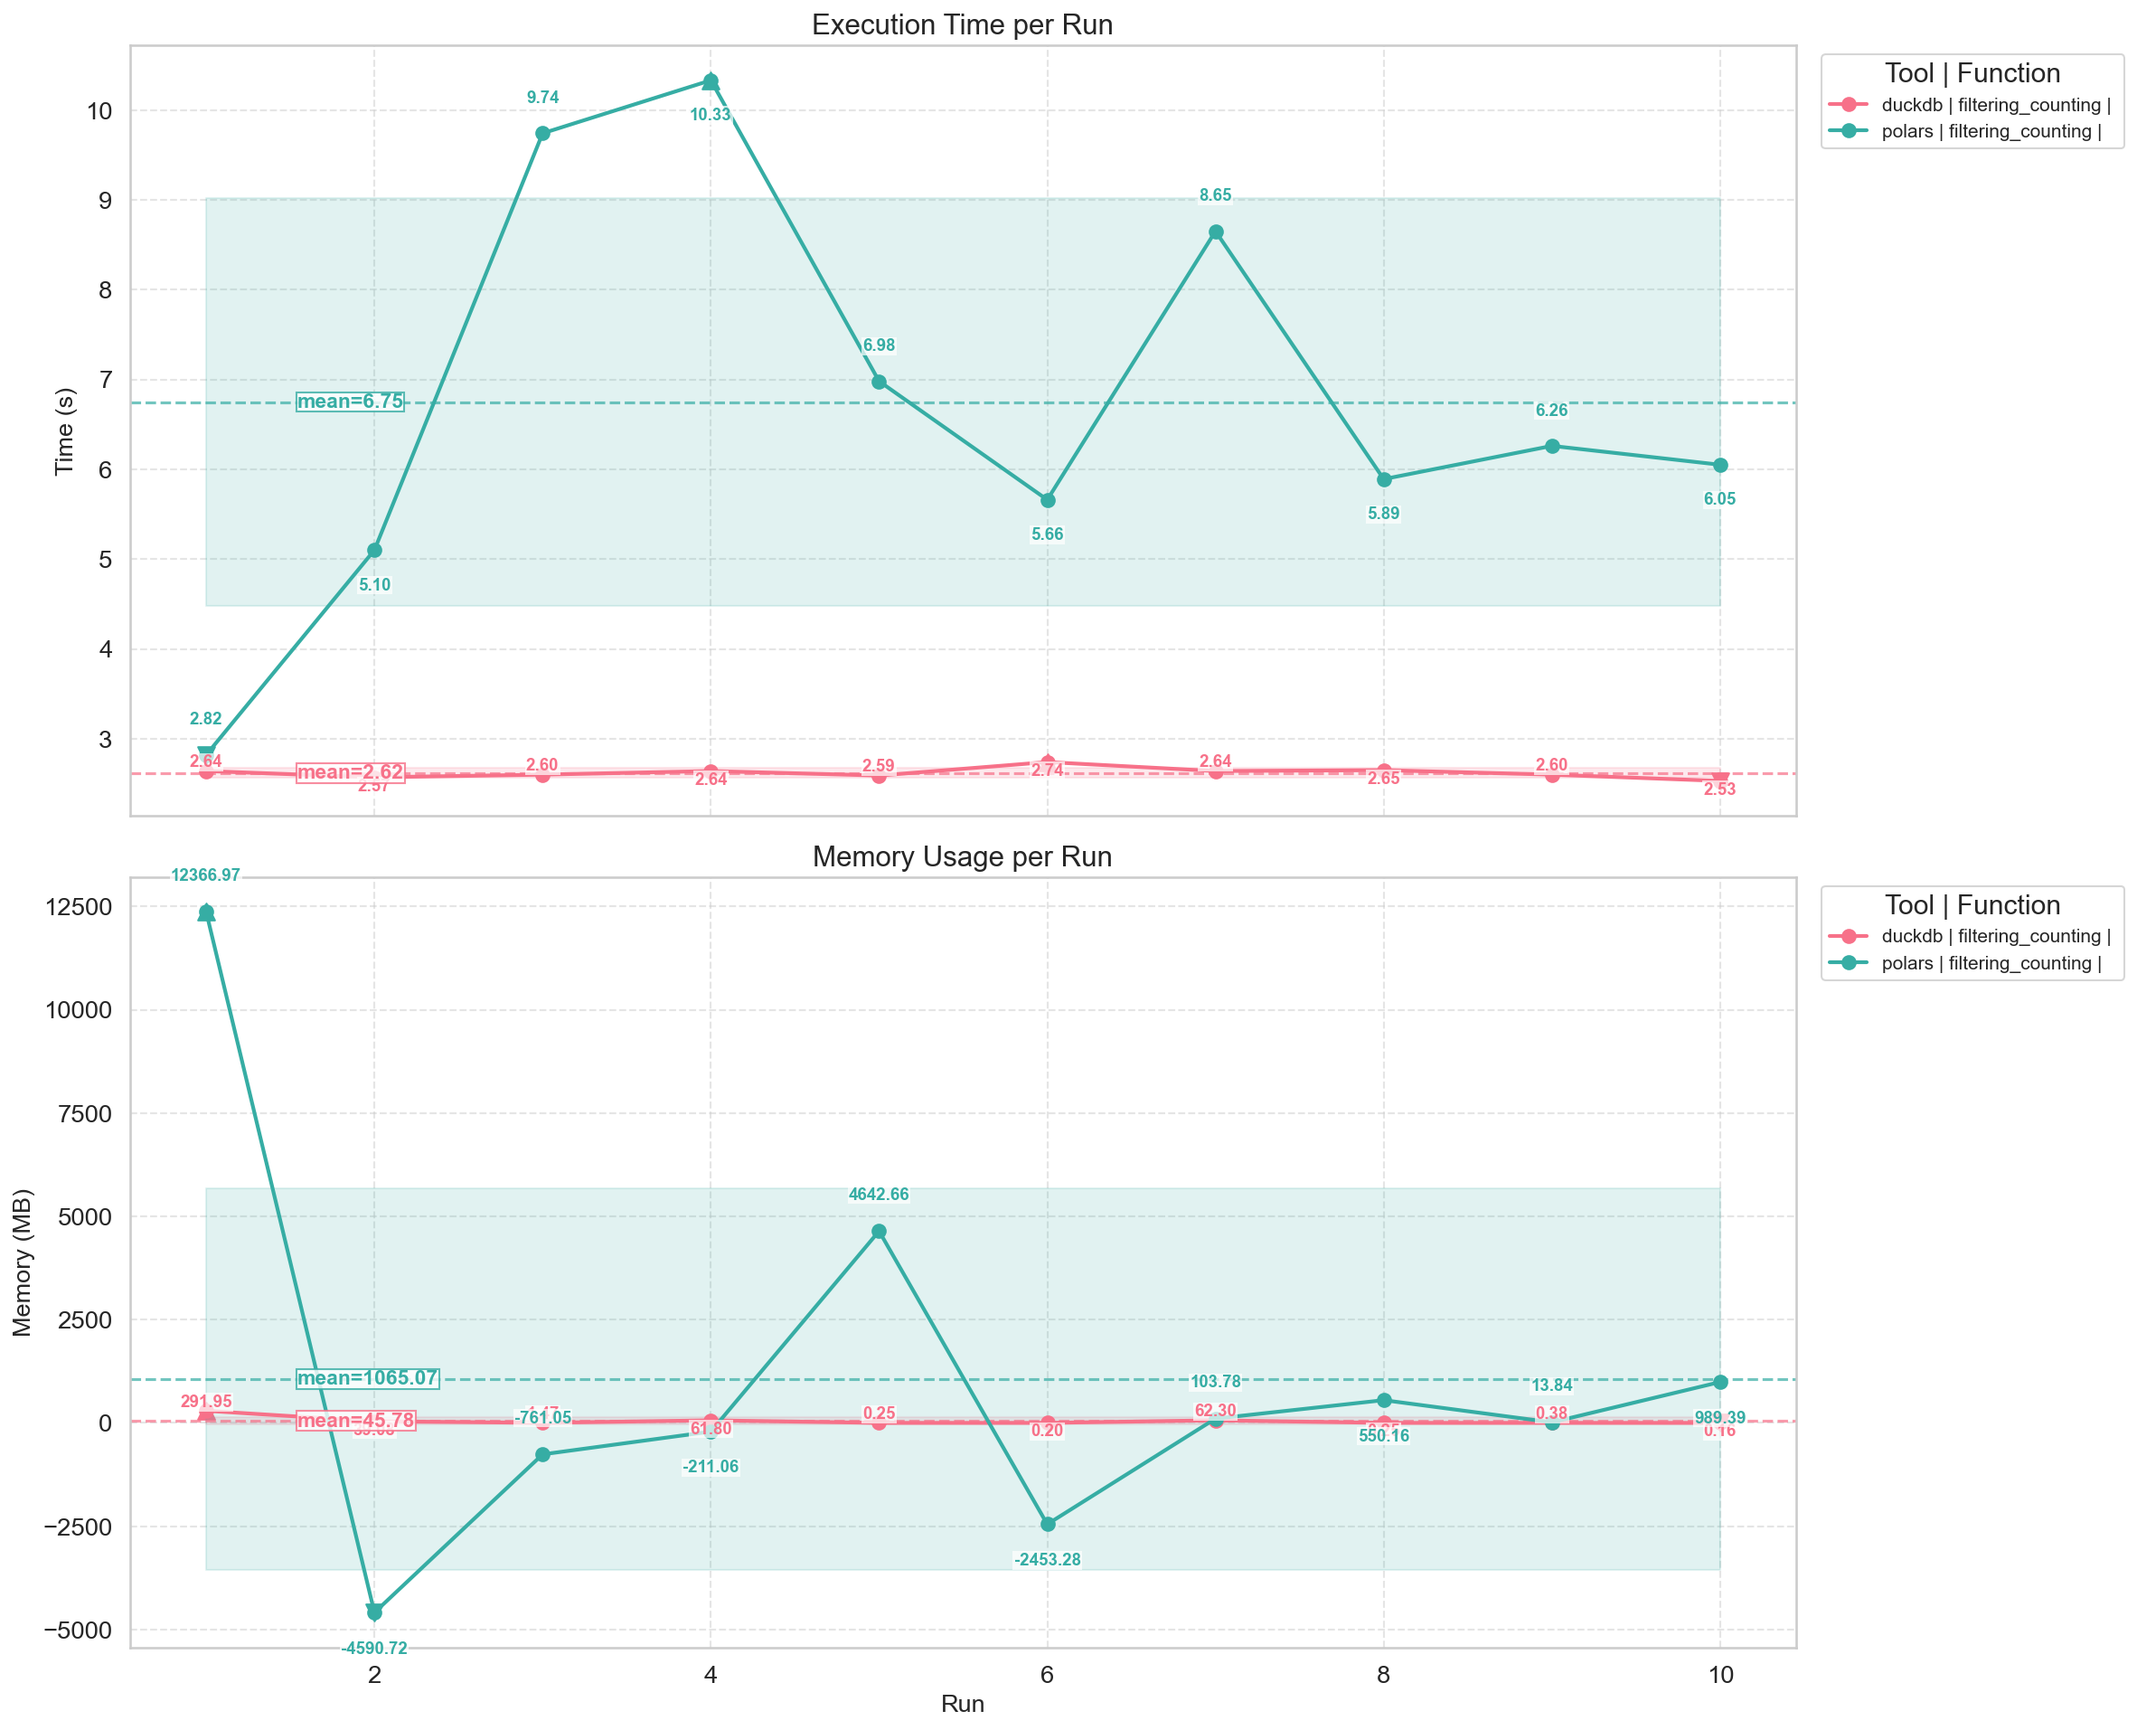
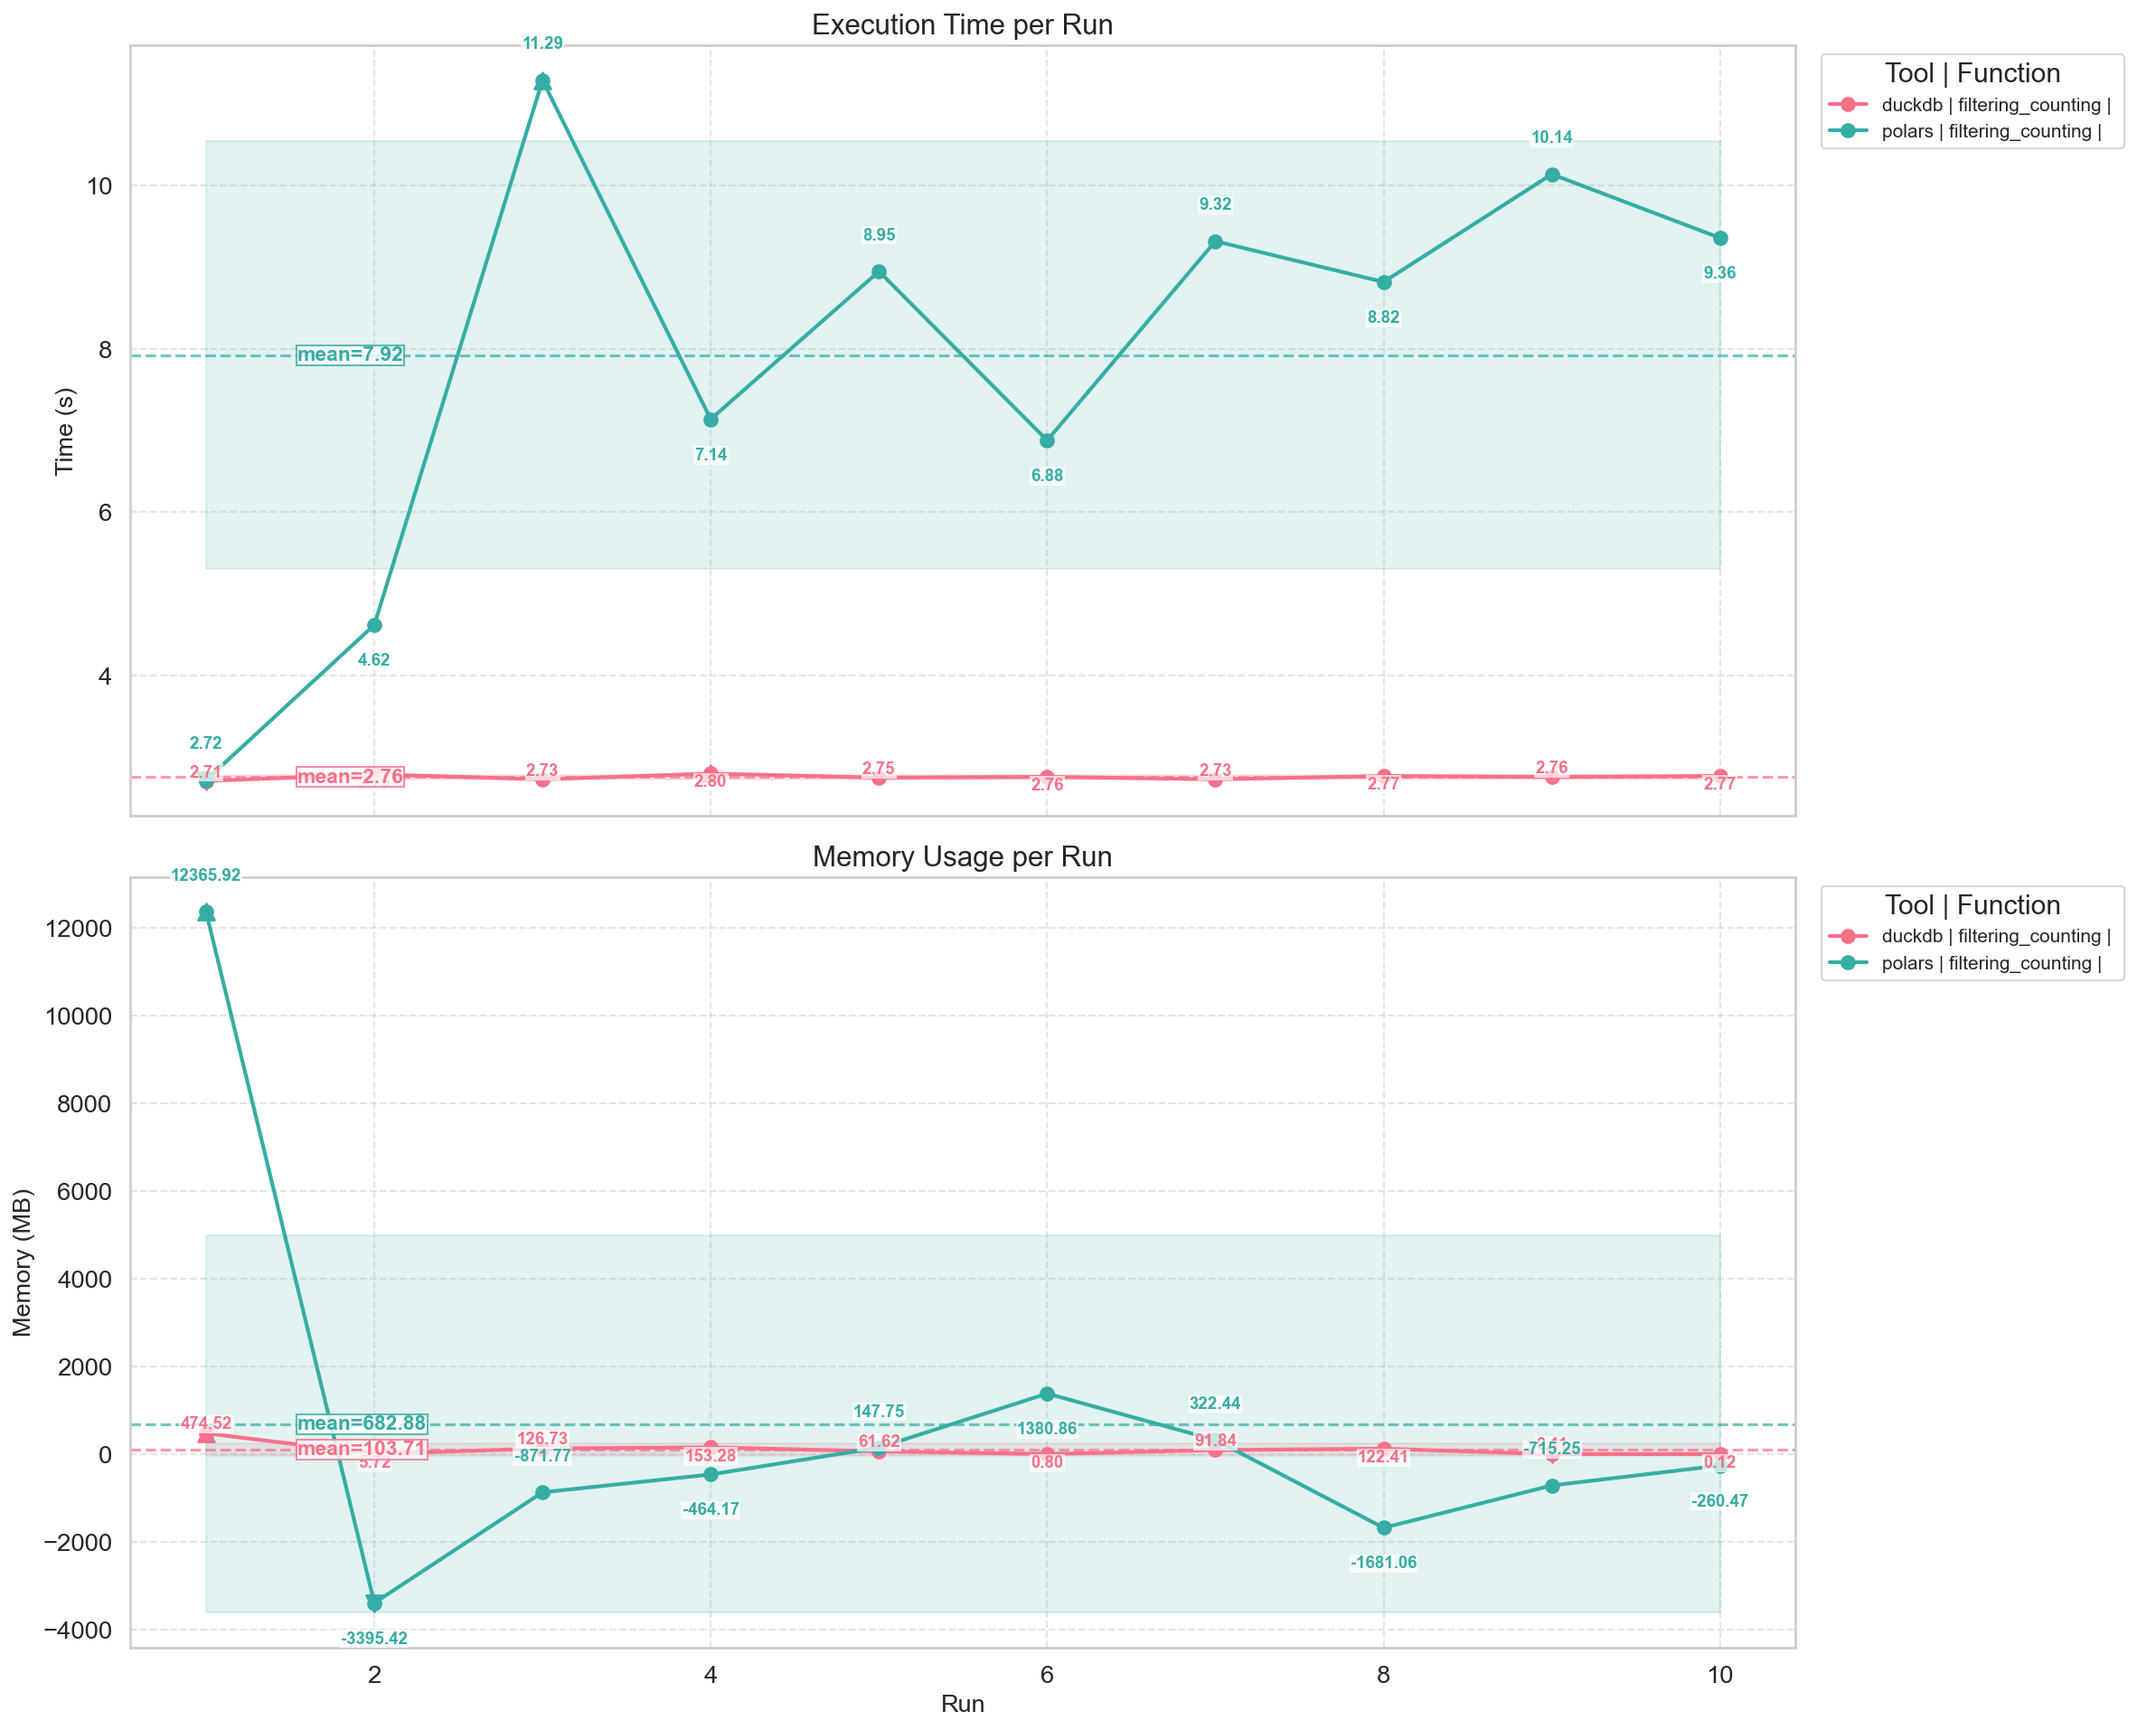
new plots

diff --git a/duckdb_polars_pandas/benchmark.py b/duckdb_polars_pandas/benchmark.py
@@ -108,39 +108,64 @@ def plot_multi(tools: List[str], function: str, mode: str) -> None:
 
 def main():
     parser = argparse.ArgumentParser(description="Benchmark runner for data processing tools.")
-    parser.add_argument("--comparison", choices=["full", "duckdb_polars"], default=None)
-    parser.add_argument("--tool", choices=["duckdb", "polars", "pandas"])
+    parser.add_argument("--tool", choices=["all", "duckdb_polars", "duckdb", "polars", "pandas"])
     parser.add_argument("--function", choices=[
         "filtering_counting",
         "filtering_grouping_aggregation",
         "grouping_conditional_aggregation"
     ], required=True)
-    parser.add_argument("--mode", choices=["cold", "hot"], default="cold")
+    parser.add_argument("--mode", choices=["all", "cold", "hot"], default="cold")
     parser.add_argument("--runs", type=int, default=10)
     args = parser.parse_args()
 
-    comparison_map = {
-        "full": ["pandas", "duckdb", "polars"],
-        "duckdb_polars": ["duckdb", "polars"]
+    tool_map = {
+        "all": ["pandas", "duckdb", "polars"],
+        "duckdb_polars": ["duckdb", "polars"],
+        "duckdb": ["duckdb"],
+        "polars": ["polars"],
+        "pandas": ["pandas"],
     }
 
-    if args.comparison:
-        tools = comparison_map[args.comparison]
+    tools = tool_map[args.tool]
+
+    if args.mode == "all":
         for tool in tools:
-            run_benchmark(args.runs, tool, args.function, args.mode)
+            run_benchmark(args.runs, tool, args.function, "cold")
         print(
-            f"\nBenchmark-Comparison for {args.function} with {', '.join([b.capitalize() for b in tools])} in {args.mode} mode with {args.runs} runs finished.\n")
-        plot_multi(tools, args.function, args.mode)
-        if args.comparison == "full":
+            f"\nBenchmark-Comparison for {args.function} with {', '.join([b.capitalize() for b in tools])} in cold mode with {args.runs} runs finished.\n")
+        plot_multi(tools, args.function, "cold")
+        if args.tool == "all":
             plotter.barcharts(
-                (f"results/{b}_{args.function}_{args.mode}.csv" for b in tools),
+                (f"results/{b}_{args.function}_cold.csv" for b in tools),
                 True,
-                f"results/{'_'.join(tools)}_{args.function}_{args.mode}_bar.png"
+                f"results/{'_'.join(tools)}_{args.function}_{"cold"}_bar.png"
             )
-            plot_multi(["duckdb", "polars"], args.function, args.mode)
+            plot_multi(["duckdb", "polars"], args.function, "cold")
+        for tool in tools:
+            run_benchmark(args.runs, tool, args.function, "hot")
+        print(
+            f"\nBenchmark-Comparison for {args.function} with {', '.join([b.capitalize() for b in tools])} in hot mode with {args.runs} runs finished.\n")
+        plot_multi(tools, args.function, "hot")
+        if args.tool == "all":
+            plotter.barcharts(
+                (f"results/{b}_{args.function}_hot.csv" for b in tools),
+                True,
+                f"results/{'_'.join(tools)}_{args.function}_hot_bar.png"
+            )
+            plot_multi(["duckdb", "polars"], args.function, "hot")
+        hot_cold_csvs = [
+                            f"results/{tool}_{args.function}_cold.csv"
+                            for tool in tools
+                        ] + [
+                            f"results/{tool}_{args.function}_hot.csv"
+                            for tool in tools
+                        ]
+        plotter.barcharts_hot_vs_cold(
+            hot_cold_csvs,
+            True,
+            f"results/{'_'.join(tools)}_{args.function}_hot_cold_bar.png"
+        )
     else:
-        if not args.tool:
-            parser.error("--tool is required if --comparison is not set")
         run_benchmark(args.runs, args.tool, args.function, args.mode)
         plotter.plot_results(
             f"results/{args.tool}_{args.function}_{args.mode}.csv",

diff --git a/duckdb_polars_pandas/plotter.py b/duckdb_polars_pandas/plotter.py
@@ -56,6 +56,44 @@ def barcharts(csv_files, save_fig=False, fig_name="benchmark_barcharts.png"):
 
     plt.show()
 
+def barcharts_hot_vs_cold(csv_files, save_fig=False, fig_name="benchmark_hot_vs_cold_barcharts.png"):
+    """
+    Plot grouped barcharts comparing hot and cold runs for each tool.
+    """
+    import re
+    df = _load_and_concat_csvs(csv_files, add_source=True)
+    _check_required_columns(df, {'tool', 'function', 'run', 'time_s', 'memory_mb', 'source'})
+
+    df['mode'] = df['source'].apply(lambda x: re.search(r'_(cold|hot)', x).group(1) if re.search(r'_(cold|hot)', x) else 'unknown')
+
+    tools = ['duckdb', 'polars', 'pandas']
+    modes = ['cold', 'hot']
+    palette = sns.color_palette("husl", len(tools))
+
+    avg_times = df.groupby(['tool', 'mode'])['time_s'].mean().unstack().reindex(tools).fillna(0)
+    avg_memory = df.groupby(['tool', 'mode'])['memory_mb'].mean().unstack().reindex(tools).fillna(0)
+
+    fig, axes = plt.subplots(1, 2, figsize=(14, 6))
+
+    avg_times.plot(kind='bar', ax=axes[0], color=['#1f77b4', '#ff7f0e'])
+    axes[0].set_ylabel('Average Time (s)')
+    axes[0].set_title('Average Execution Time by Tool (Hot vs Cold)')
+    axes[0].legend(title='Mode')
+    axes[0].set_ylim(bottom=0)
+
+    avg_memory.plot(kind='bar', ax=axes[1], color=['#1f77b4', '#ff7f0e'])
+    axes[1].set_ylabel('Average Memory (MB)')
+    axes[1].set_title('Average Memory Usage by Tool (Hot vs Cold)')
+    axes[1].legend(title='Mode')
+    axes[1].set_ylim(bottom=0)
+
+    plt.tight_layout()
+    if save_fig:
+        fig.savefig(fig_name, dpi=150, bbox_inches='tight')
+        print(f"Figure saved as {fig_name}")
+
+    plt.show()
+
 def _plot_lines(df, label_col, legend_title, save_fig=False, fig_name="benchmark_lines_stats.png"):
     """
     Generalized line plot for time and memory metrics.
